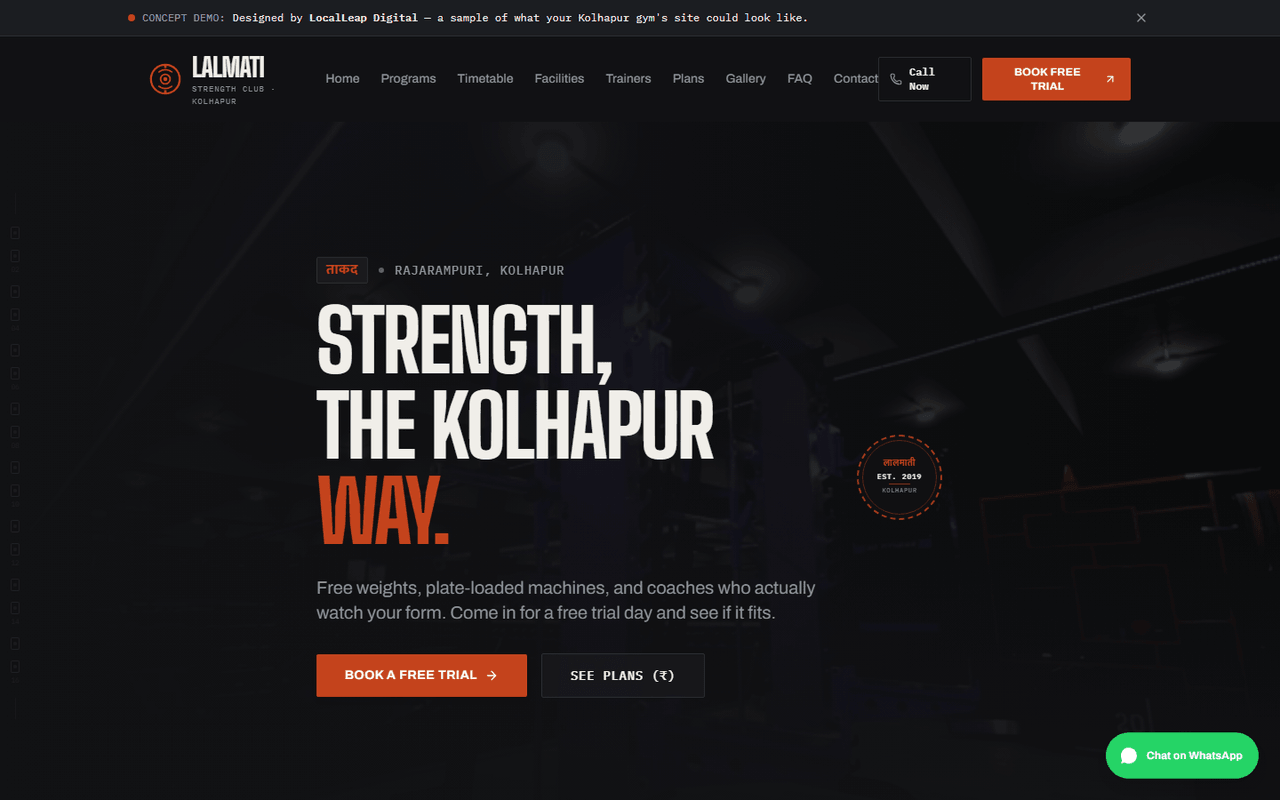
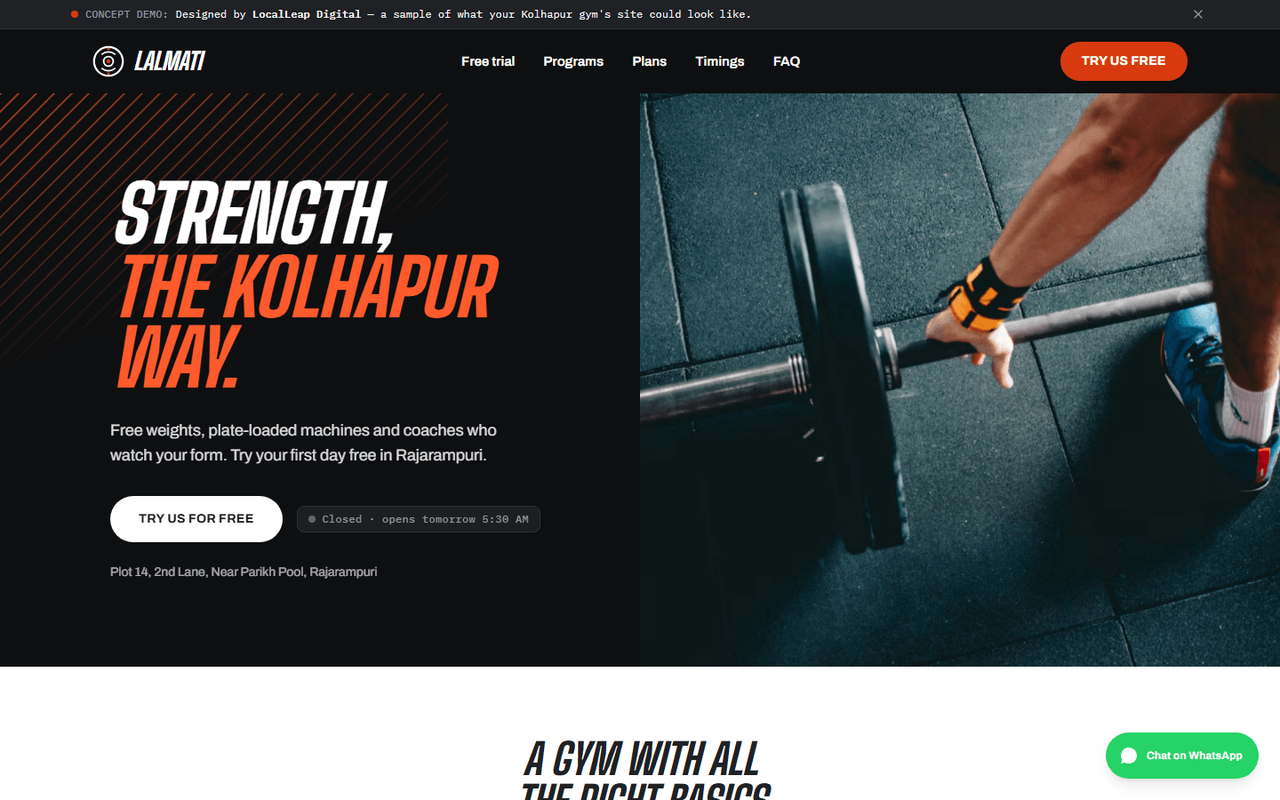
feat: refresh gym thumbnail and point cafe project to new Brew & Bloom site

diff --git a/src/data/projects.js b/src/data/projects.js
@@ -45,9 +45,9 @@ export const projects = [
     name: "Brew & Bloom Cafe",
     category: "Food & Cafe",
     tag: "Cafe",
-    description: "Menu, gallery, opening hours and WhatsApp ordering for a cozy coffee shop.",
+    description: "Menu, gallery, events and table reservations for a Kolhapur coffee house.",
     image: "/projects/cafe.png",
-    liveUrl: "https://brew-and-bloom-cafe.vercel.app/",
+    liveUrl: "https://brew-and-bloom-cafe-five.vercel.app/",
     isConcept: true,
     featured: false
   },
